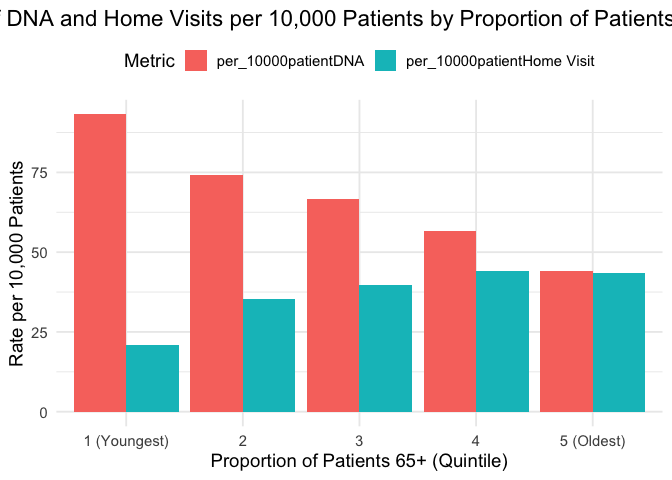
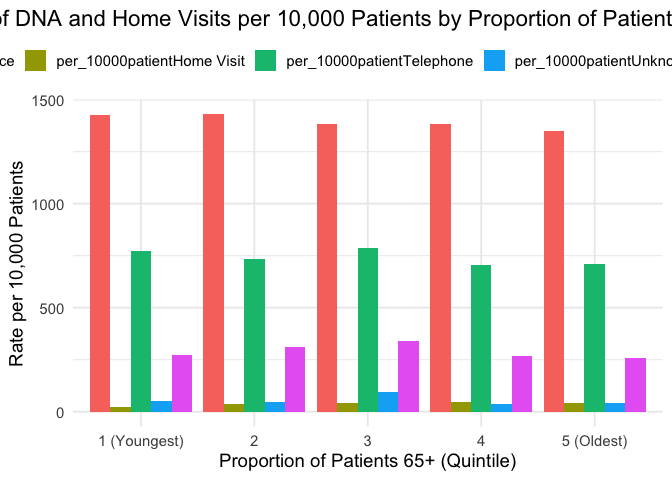
appointment type

diff --git a/data/age_group/README.md b/data/age_group/README.md
@@ -270,10 +270,6 @@ appt <- merge(appt, n_w_patients, by = c("Year", "Practice.Code"))
 appt_mar <- appt %>% filter(Month == 3)
 
 appt <- appt_mar %>%
-  mutate(APPT_MODE = case_when(
-    APPT_STATUS == "DNA" ~ "DNA",
-    TRUE ~ as.character(APPT_MODE)
-  )) %>%
   group_by(Practice.Code, APPT_MODE) %>%
   summarise(
     count = sum(COUNT_OF_APPOINTMENTS),
@@ -299,40 +295,41 @@ df <- merge(df, appt, by = "Practice.Code")
 df %>%
   group_by(prop65_quintile) %>%
   summarise(
-    per_10000patientDNA = mean(per_10000patientDNA, na.rm = TRUE),
-    # `per_10000patientFace-to-Face` = mean(`per_10000patientFace-to-Face`, na.rm = TRUE),
-    # per_10000patientTelephone = mean(per_10000patientTelephone, na.rm = TRUE),
+    # per_10000patientDNA = mean(per_10000patientDNA, na.rm = TRUE),
+    `per_10000patientFace-to-Face` = mean(`per_10000patientFace-to-Face`, na.rm = TRUE),
+    per_10000patientTelephone = mean(per_10000patientTelephone, na.rm = TRUE),
     `per_10000patientHome Visit` = mean(`per_10000patientHome Visit`, na.rm = TRUE),
     # count = n()
   ) %>%
   print()
 ```
 
-    ## # A tibble: 5 × 3
-    ##   prop65_quintile per_10000patientDNA `per_10000patientHome Visit`
-    ##             <int>               <dbl>                        <dbl>
-    ## 1               1                93.2                         21.1
-    ## 2               2                74.1                         35.5
-    ## 3               3                66.7                         39.8
-    ## 4               4                56.7                         44.0
-    ## 5               5                44.2                         43.5
+    ## # A tibble: 5 × 4
+    ##   prop65_quintile `per_10000patientFace-to-Face` per_10000patientTelephone
+    ##             <int>                          <dbl>                     <dbl>
+    ## 1               1                          1429.                      773.
+    ## 2               2                          1429.                      735.
+    ## 3               3                          1383.                      787.
+    ## 4               4                          1384.                      706.
+    ## 5               5                          1352.                      709.
+    ## # ℹ 1 more variable: `per_10000patientHome Visit` <dbl>
 
 ``` r
 library(ggplot2)
 plot <- df %>%
   group_by(prop65_quintile) %>%
   summarise(
-    per_10000patientDNA = mean(per_10000patientDNA, na.rm = TRUE),
-    # `per_10000patientFace-to-Face` = mean(`per_10000patientFace-to-Face`, na.rm = TRUE),
-    # per_10000patientTelephone = mean(per_10000patientTelephone, na.rm = TRUE),
+    `per_10000patientFace-to-Face` = mean(`per_10000patientFace-to-Face`, na.rm = TRUE),
+    per_10000patientTelephone = mean(per_10000patientTelephone, na.rm = TRUE),
     `per_10000patientHome Visit` = mean(`per_10000patientHome Visit`, na.rm = TRUE),
-    # count = n()
+    `per_10000patientVideo Conference/Online` = mean(`per_10000patientVideo Conference/Online`, na.rm = TRUE),
+    per_10000patientUnknown = mean(per_10000patientUnknown, na.rm = TRUE)
   )
 
 # Reshape the data into a long format for easier plotting
 data_long <- plot %>%
   tidyr::pivot_longer(
-    cols = c(per_10000patientDNA, `per_10000patientHome Visit`),
+    cols = c(`per_10000patientFace-to-Face`, per_10000patientTelephone, `per_10000patientHome Visit`, `per_10000patientVideo Conference/Online`, per_10000patientUnknown),
     names_to = "Metric",
     values_to = "Rate"
   )
@@ -357,31 +354,23 @@ ggplot(data_long, aes(x = factor(prop65_quintile), y = Rate, fill = Metric)) +
 ![](README_files/figure-markdown_github/plot%20appts-1.png)
 
 ``` r
-# Assuming the data is stored in a tibble called `data`
-ggplot(plot, aes(x = prop65_quintile)) +
-  geom_line(aes(y = per_10000patientDNA, color = "DNA per 10,000 Patients"), size = 1) +
-  geom_line(aes(y = `per_10000patientHome Visit`, color = "Home Visits per 10,000 Patients"), size = 1) +
-  labs(
-    title = "Trends in DNA and Home Visit Rates by Proportion of Patients 65+ Quintile",
-    x = "Proportion of Patients 65+ (Quintile)",
-    y = "Rate per 10,000 Patients",
-    color = "Metric"
-  ) +
-  scale_x_continuous(breaks = 1:5, labels = c("1 (Youngest)", "2", "3", "4", "5 (Oldest)")) +
-  theme_minimal(base_size = 14) +
-  theme(
-    plot.title = element_text(hjust = 0.5), # Center-align title
-    legend.position = "top" # Move legend to the top
-  )
+# # Assuming the data is stored in a tibble called `data`
+# ggplot(plot, aes(x = prop65_quintile)) +
+#   geom_line(aes(y = per_10000patientDNA, color = "DNA per 10,000 Patients"), size = 1) +
+#   geom_line(aes(y = `per_10000patientHome Visit`, color = "Home Visits per 10,000 Patients"), size = 1) +
+#   labs(
+#     title = "Trends in DNA and Home Visit Rates by Proportion of Patients 65+ Quintile",
+#     x = "Proportion of Patients 65+ (Quintile)",
+#     y = "Rate per 10,000 Patients",
+#     color = "Metric"
+#   ) +
+#   scale_x_continuous(breaks = 1:5, labels = c("1 (Youngest)", "2", "3", "4", "5 (Oldest)")) +
+#   theme_minimal(base_size = 14) +
+#   theme(
+#     plot.title = element_text(hjust = 0.5), # Center-align title
+#     legend.position = "top" # Move legend to the top
+#   )
 ```
-
-    ## Warning: Using `size` aesthetic for lines was deprecated in ggplot2 3.4.0.
-    ## ℹ Please use `linewidth` instead.
-    ## This warning is displayed once every 8 hours.
-    ## Call `lifecycle::last_lifecycle_warnings()` to see where this warning was
-    ## generated.
-
-![](README_files/figure-markdown_github/plot%20appts-2.png)
 
 ``` r
 prevalence <- read.csv("../prevalence/ltc_prevalence.csv") %>%
